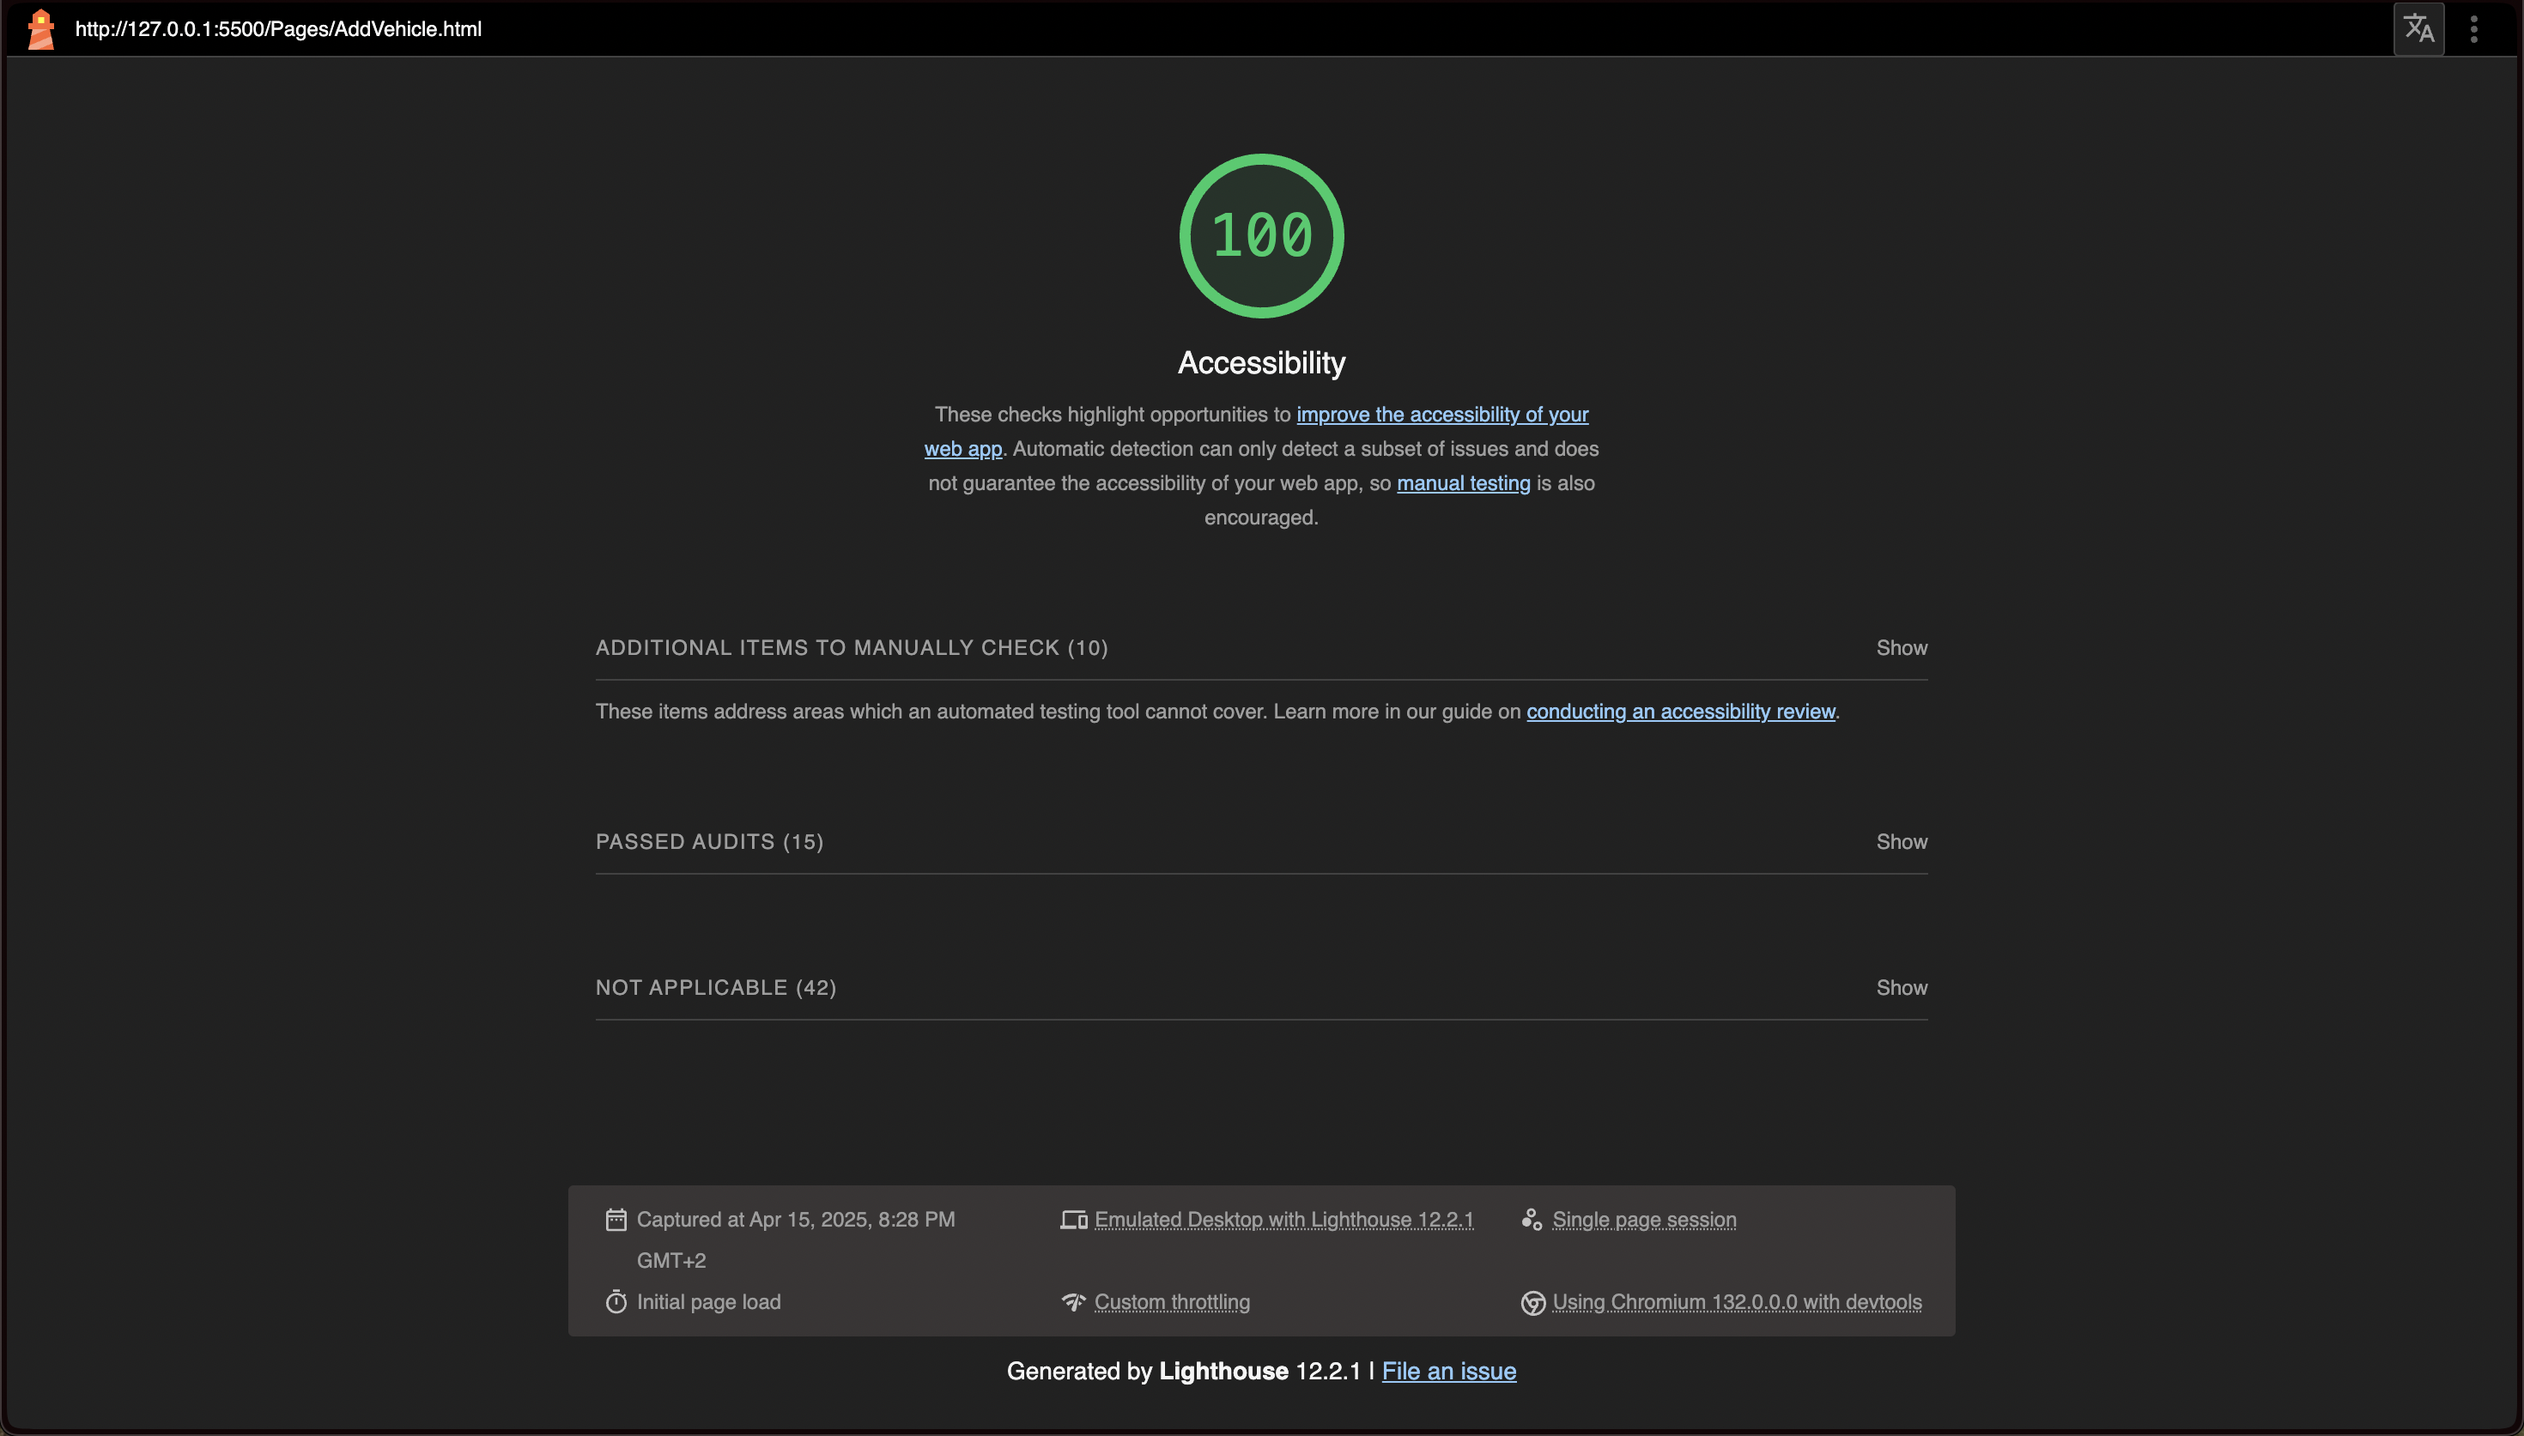
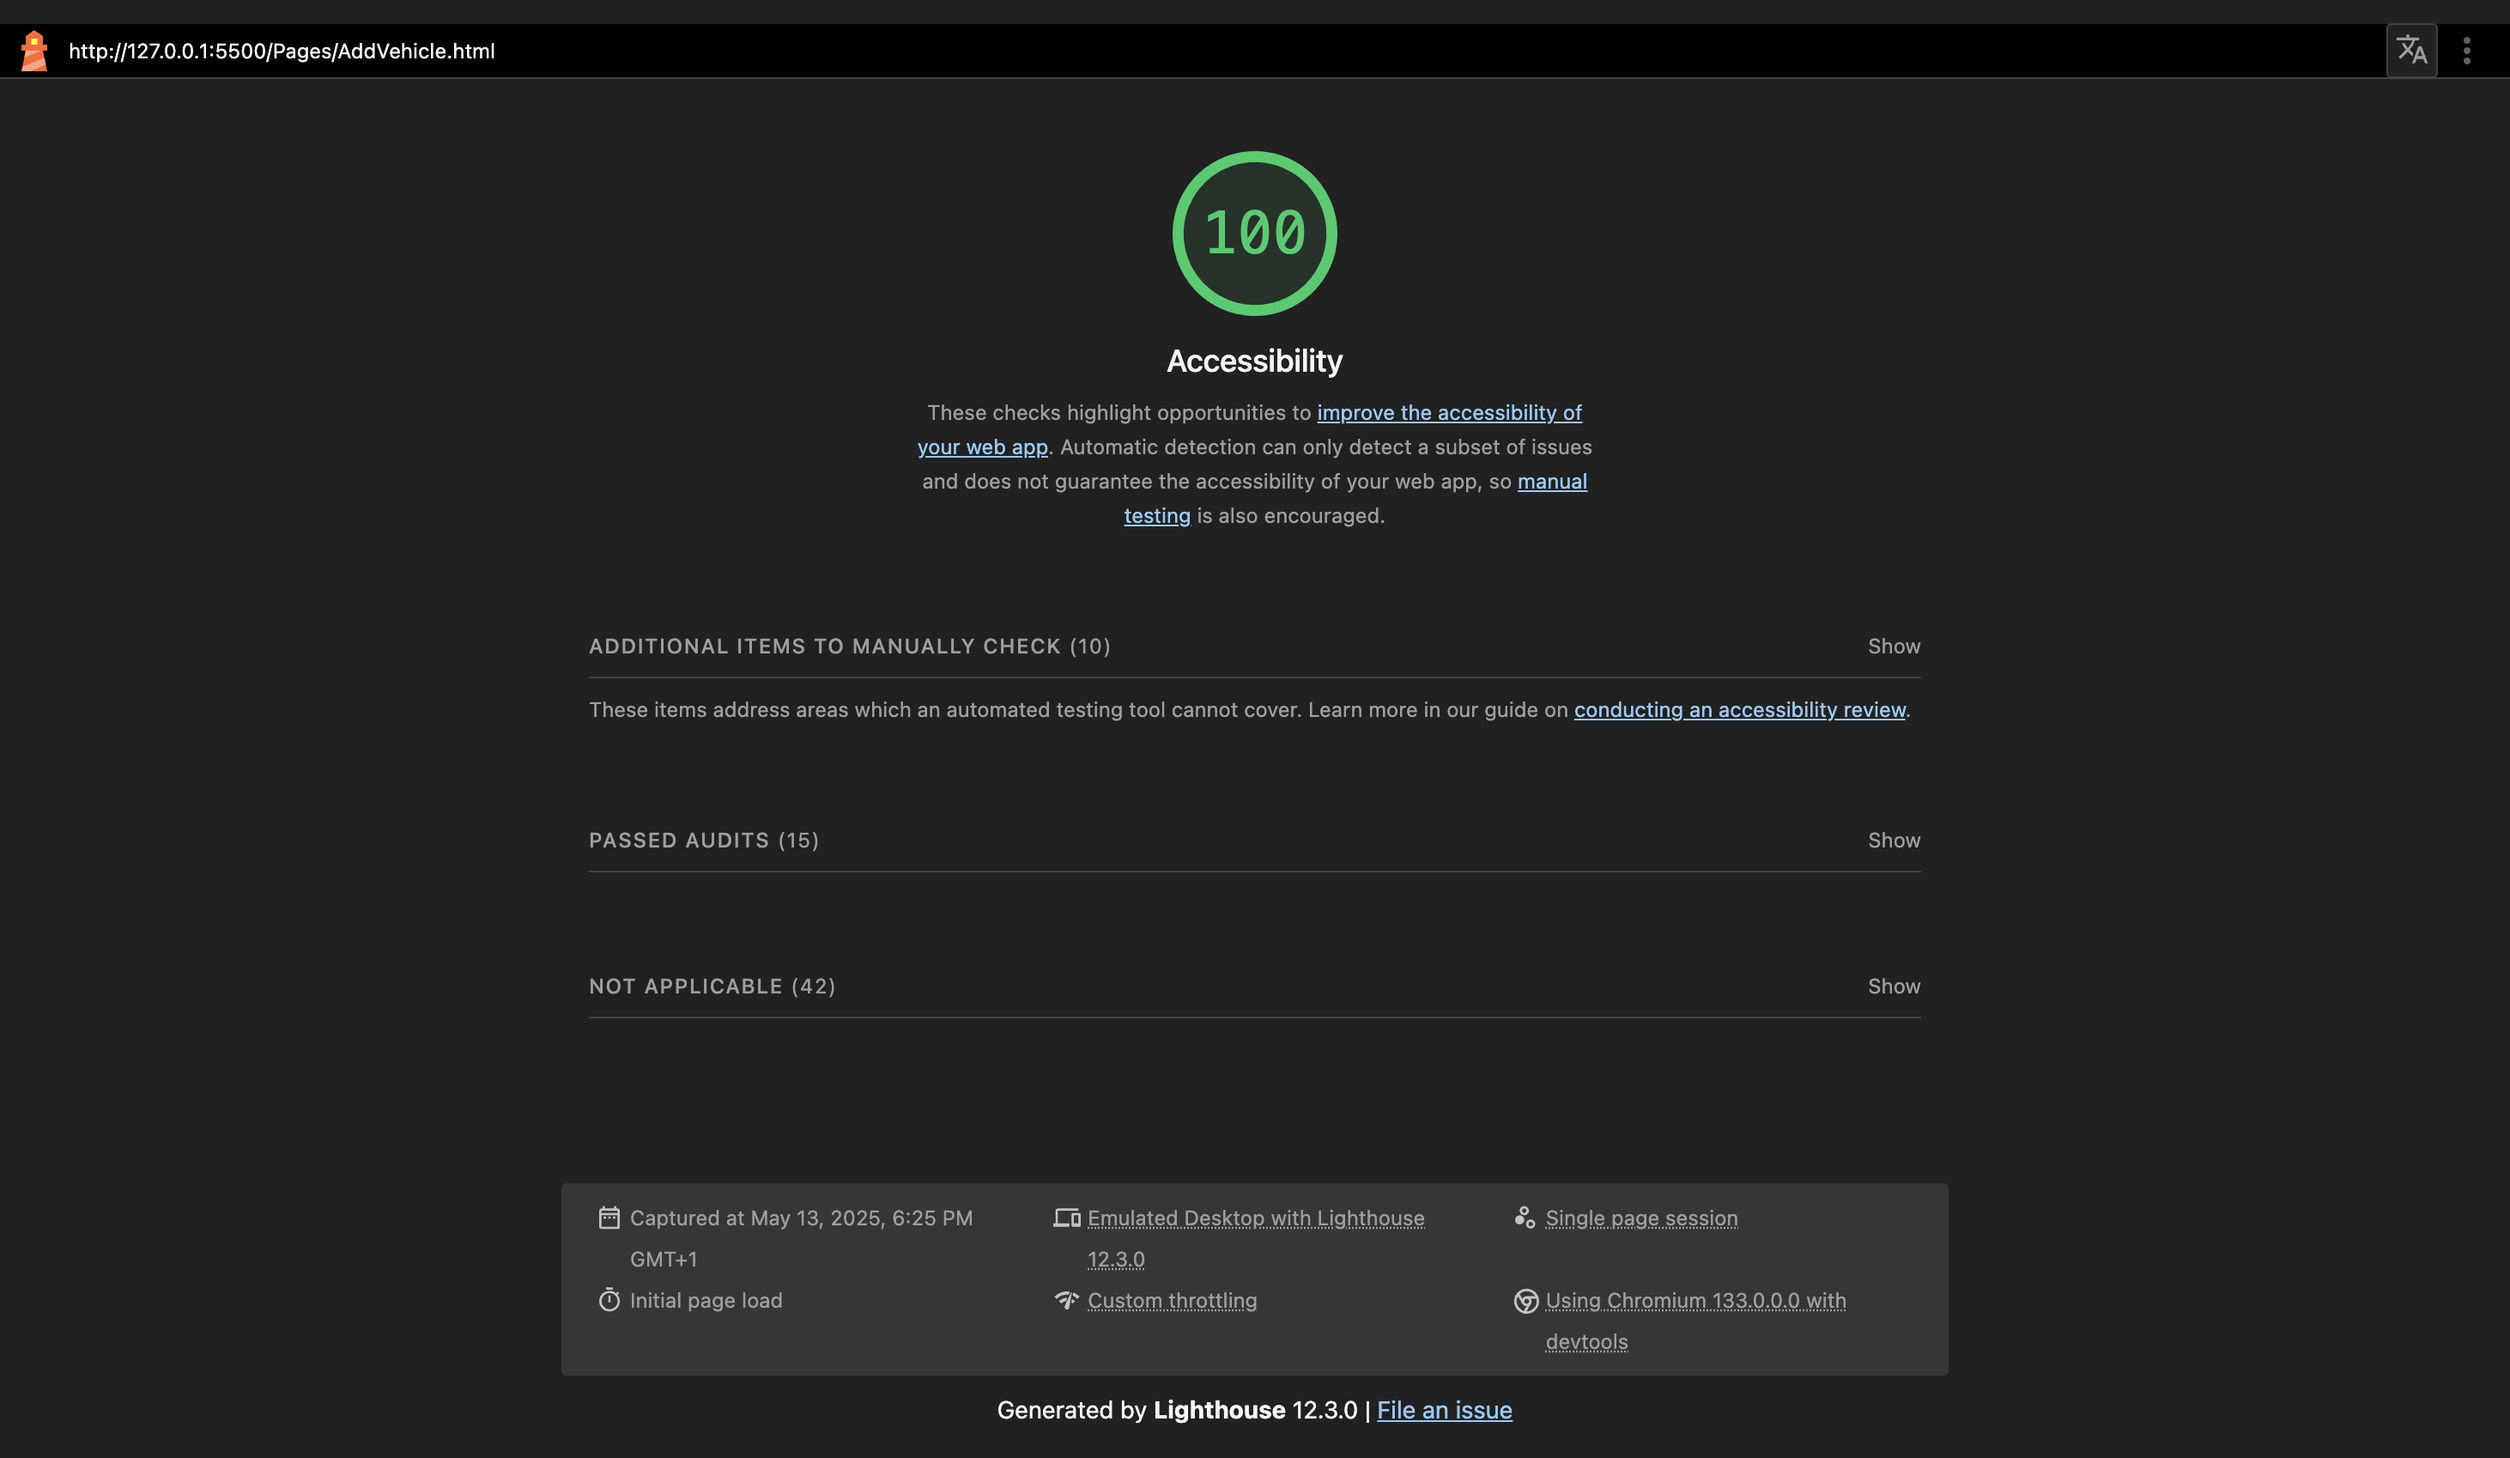
Update

diff --git a/Modules/AddVehicleMain.js b/Modules/AddVehicleMain.js
@@ -16,7 +16,9 @@ var OwnerID;
 var LastCheckedOwner = null;
 var Tab = "Existing";
 
-function Debounce(Timeout, Action) { //Hmmmm
+//Debounce function, executes an action after x amount of time since last call.
+//Intended to do certain actions after user stops inputting, without them having to do anything.
+function Debounce(Timeout, Action) {
     let Timer; 
     return (...args) => {
         clearTimeout(Timer);
@@ -25,6 +27,7 @@ function Debounce(Timeout, Action) { //Hmmmm
 }
 
 //#region Existing Owner Tab
+//This region covers functionality for using an owner that already exists in the database
 const ExistingOwnerButton = document.getElementById("existingOwnerButton");
 const ExistingOwnerTab = document.getElementsByClassName("existingOwnerTab");
 const OwnerInput = document.getElementById("owner");
@@ -89,6 +92,9 @@ async function ValidateExistingOwner() {
     GlobalCheck();
 }
 
+//Automatic/Forceful selection
+//Used if user tries to add an owner that exists
+//Or once a new owner is successfully added
 function ForceSetExistingOwner(Person) {
     ExistingOwnerButton.click();
     
@@ -109,6 +115,7 @@ function ForceSetExistingOwner(Person) {
 //#endregion
 
 //#region New Owner Tab
+//This region covers functionality for adding a new owner to the database
 const NewOwnerButton = document.getElementById("newOwnerButton");
 const NewOwnerTab = document.getElementsByClassName("newOwnerTab");
     const NameInput = document.getElementById("name");
@@ -140,9 +147,7 @@ function ShowNewOwnerTab() {
 
     MessageOwner.textContent = "";
 }
-//#endregion
 
-//#region Add owner
 const AddOwnerButton = document.getElementById("addOwnerButton");
 
 async function AddPerson() {
@@ -198,6 +203,7 @@ async function AddPerson() {
 //#endregion
 
 //#region Selection
+//When listing possible owners, if one is selected, this is called
 async function SelectMe() {
     await FetchPeopleByID(this.dataset.personid).then(
         (People) => {
@@ -276,11 +282,18 @@ function CheckAllowSubmit() {
     return Valid;
 }
 
+function CheckOwnerExists() {
+    let Valid = !!OwnerID;
+    Results.style.border = Valid ? "2px dashed black" : "2px dashed red;"
+    return Valid;
+}
+
 function GlobalCheck() {
     CheckAllowCheckOwner();
     CheckAllowNewOwner();
     CheckAllowAddOwner();
     CheckAllowSubmit();
+    CheckOwnerExists();
 }
 //#endregion
 

diff --git a/Modules/SB.js b/Modules/SB.js
@@ -3,6 +3,10 @@ import { createClient } from "https://cdn.jsdelivr.net/npm/@supabase/supabase-js
 const SB = createClient("https://dggmyjmokbqvugwjkvil.supabase.co", "eyJhbGciOiJIUzI1NiIsInR5cCI6IkpXVCJ9.eyJpc3MiOiJzdXBhYmFzZSIsInJlZiI6ImRnZ215am1va2JxdnVnd2prdmlsIiwicm9sZSI6ImFub24iLCJpYXQiOjE3NDQxMzEzOTEsImV4cCI6MjA1OTcwNzM5MX0.xW9DKbpYVibTu3Jpe8bvC50Hhpk5BZyTWjgHoQp3HOE");
 console.log("Supabase client created!");
 
+//#region Element Creation Functions
+//Functions that return the raw HTML to display a person or vehicle's information. 
+//The raw HTML is intended to be appended to a div's innerHTML.
+
 function CreatePersonElement(PersonID, Name, Address, DOB, LPN, ExpiryDate) {
     return `
         <div class="result" id="PERSONELEMENT${PersonID}">
@@ -70,6 +74,11 @@ function CreateVehicleElement(VehicleID, Make, Model, Color, OwnerID, OwnerName)
         </div>
     `;
 }
+//#endregion
+
+//#region Insertion & Fetching Functions
+//Functions that interface with Supabase to fetch or insert people or vehicles into the database.
+//Provides different functionalities, for example: fetching by name, or by id, or by every characteristic (to find exact matches)
 
 async function FetchPeopleByNameOrLPN(Name, LN) {
     const { data, error } = (await SB
@@ -177,6 +186,7 @@ async function InsertVehicle(ID, _Make, _Model, _Colour, _OwnerID) {
 
     return data;
 }
+//#endregion
 
 export { 
     CreatePersonElement,

diff --git a/Tests/SearchTests.spec.js b/Tests/SearchTests.spec.js
@@ -97,6 +97,18 @@ test('VehicleSearch, Empty Fields', async ({ page }) => {
   await expect(page.getByRole('button', { name: 'Submit' })).toBeDisabled();
 });
 
+//Tries to search a nonexistant license plate
+//Goal: Error message is displayed
+test('VehicleSearch, Vehicle Not In Database', async ({ page }) => {
+  await page.getByRole('link', { name: 'Vehicle search' }).click();
+
+  await page.getByRole('textbox', { name: 'Search by license plate number:' }).fill('ISUREHOPETHISISNOTALICENSENUMBER');
+
+  await page.getByRole('button', { name: 'Submit' }).click();
+
+  await expect(page.locator("#message")).toContainText("No result found!");
+});
+
 //The system will then show all the details of the car (e.g., type, colour etc.), and the ownerʼs name and license number.
 test('VehicleSearch, Returns All Details', async ({ page}) => {
 

diff --git a/Style/Style.css b/Style/Style.css
@@ -1,7 +1,7 @@
 .container {
     display: grid;
 
-    @media screen and (max-width: 499px) { /*Mobile*/
+    @media screen and (max-width: 499px) { /*Mobile */
         grid-template-areas: 
         "Header Header" 
         "Main Main"
@@ -184,7 +184,7 @@ main {
         padding: 10px;
         min-height: 53vh;
 
-        border: 2px dashed black;
+        border: 2px dashed red;
 
         & > .result {
             flex: 1;

diff --git a/Report.md b/Report.md
@@ -18,21 +18,101 @@
 9. Heading elements appear in a sequentially-descending order - See [AddVehicle.html:16](./Pages/AddVehicle.html#)
 10. HTML5 landmark elements are used to improve navigation - See [AddVehicle.html:15](./Pages/AddVehicle.html#)
 
+Additionally, I manually tested the following:
+
+11. **Interactive controls are keyboard focusable** - Tested by tabbing through the form elements. It is possible to fill and submit the form using only the keyboard.
+12. **Interactive elements indicate their purpose and state** - The form communicates fields that must be filled in. Highlighting them when they are yet to be filled or filled incorrectly. It is clear they are interactable.
+13. **The page has a logical tab order** - Tabbing through the page goes from top to bottom.
+14. **Visual order on the page follows DOM order.**
+15. **User focus is not ever accidentally trapped in a region.**
+16. **The user's focus is directed to new content added to the page** - Page is small enough that there is no need to move focus.
+17. **Offscreen content is hidden from assistive technology** - There is no offscreen content.
+18. **Custom controls have associated labels & Custom controls have ARIA roles** - There are no custom controls.
+
 ## CSS
 
 ### Mobile Layout (<500px)
 
-<img src="./Assets/Report/Mobile1.jpg" width="400">
-<img src="./Assets/Report/Mobile2.jpg" width="400">
+![Mobile layout image](./Assets/Report/Mobile.png)
 
 #### Achieved using Media Queries at the following locations in [Style.css](./Style/Style.css):
-1. Site Layout - Line 4, Line 11
-2. Navbar direction - Line 35, Line 38
-3. Add Vehicle Form 
-    - Layout - Line 76, Line 80
-    - Add Vehicle Button - Line 131, Line 134
-4. People/Vehicle Search Form Layout:
-    - Text Input Field - Line 110, Line 113
-    - Search Button - Line 119, Line 122
+1. Site Layout
+    - Location: Line 4 to Line 16
+    - Description: Changes the grid layout of the site depending on platform.
+2. Navbar direction
+    - Location: Line 35 to Line 40
+    - Description: Changes the navigation links to be listed either horizontally or vertically depending on platform. 
+3. Add Vehicle Form Layout
+    - Location: Line 76 to Line 83
+    - Description: Changes how the form is laid out slightly depending on platform.
+4. Add Vehicle Form, Submit Button 
+    - Location: Line 135 to Line 140
+    - Description: Changes submit button to take up most of horizontal space on mobile, for better usability.
+5. People/Vehicle Search Form Layout:
+    - Location: Line 114 to Line 119
+    - Description: Changes how the form is laid out slightly depending on platform.
+6. People/Vehicle Search Form, Submit Button
+    - Location: Line 122 to Line 128
+    - Description: Changes submit button to take up most of horizontal space on mobile, for better usability.
 
-## JS
+## JS (Tests)
+
+### People Search Tests
+
+-   Searching With Empty Fields - See [SearchTests.spec.js:13](./Tests/SearchTests.spec.js)
+    - Goal: Since there is nothing to search against, the website should not let the user perform a search with empty fields.
+-   Searching With Both Fields Filled - See [SearchTests.spec.js:24](./Tests/SearchTests.spec.js)
+    - Goal: As per the spec, the website should not let the user perform a search with both the name and license number. If the user manages this, an error message should be displayed.
+-   Searching For a Person Not In Database - See [SearchTests.spec.js:36](./Tests/SearchTests.spec.js)
+    - Goal: Since there is nothing to display, the website should inform the user no results were found.
+-   Ensuring Fields are Case Insensitive - See [SearchTests.spec.js:47](./Tests/SearchTests.spec.js)
+    - Goal: For ease of use, the website should allow searches for (example) 'john' to retrieve 'John'. 
+-   Ensuring Partial Search Works as Expected - See [SearchTests.spec.js:68](./Tests/SearchTests.spec.js)
+    - Goal: For ease of use, the website should allow searches for (example) 'Joh' to retrieve 'John'.
+
+### Vehicle Search Tests
+
+-   Searching With Empty Field - See [SearchTests.spec.js:92](./Tests/SearchTests.spec.js)
+    - Goal: Since there is nothing to search against, the website should not let the user perform a search with an empty field.
+-   Searching For a Vehicle Not In Database - See [SearchTests.spec.js:102](./Tests/SearchTests.spec.js)
+    - Goal: Since there is nothing to display, the website should inform the user no results were found.
+-   Ensuring Search Returns All Details - See [SearchTests.spec.js:113](./Tests/SearchTests.spec.js)
+    - Goal: The website should return every required detail from a search. (Vehicle ID, Make, Model, Colour, and Owner)
+-   Ensuring Search Handles Missing Owner - See [SearchTests.spec.js:127](./Tests/SearchTests.spec.js)
+    - Goal: The website should be able to handle vehicles with a missing owner safely. 
+
+![All People and Vehicle Search Tests Passed](./Assets/Report/SearchTestsPassed.png)
+
+<hr>
+
+### Add Vehicle Tests
+
+-   Trying to Add Existing Vehicle - See [AddVehicleTests.spec.js:11](./Tests/AddVehicleTests.spec.js)
+    - Goal: To avoid duplicate entries in the database, the website should not insert vehicles that already exist and should instead inform the user about its pre-existance.
+-   Trying to Add Vehicle with a Missing Field - See [AddVehicleTests.spec.js:30](./Tests/AddVehicleTests.spec.js)
+    - Goal: To avoid incomplete entries in the database, the website should not insert vehicles if every detail isn't filled out. 
+
+### Add Owner Tests
+
+-   Trying to Add Existing Owner - See [AddVehicleTests.spec.js:49](./Tests/AddVehicleTests.spec.js)
+    - Goal: To avoid duplicate entries in the database, the website should not insert owners that already exist and should instead set the owner of a new vehicle to be that existing owner.
+-   Trying to Add Existing Owner, but Using Lowercased Name - See [AddVehicleTests.spec.js:82](./Tests/AddVehicleTests.spec.js)
+    - Goal: The website should ensure a new owner named 'john x' cannot be added if a 'John x' already exists, they represent the same person.
+-   Trying to Add Owner, Whose Information *Almost* Matches an Existing Owner - See [AddVehicleTests.spec.js:115](./Tests/AddVehicleTests.spec.js)
+    - Goal: The website should ensure adding an owner with (example) the same name but different license number to an existing owner *is* permitted.  
+-   Trying to Add Owner with a Missing Field - See [AddVehicleTests.spec.js:149](./Tests/AddVehicleTests.spec.js)
+    - Goal: To avoid incomplete entries in the database, the website should not insert owners if every detail isn't filled out. 
+-   Trying To Add Owner with a DD-MM-YYYY Date Instead of the Correct YYYY-MM-DD - See [AddVehicleTests.spec.js:173](./Tests/AddVehicleTests.spec.js)
+    - Goal: Enforcing a date format
+-   Trying To Add Owner with an Impossible Date - See [AddVehicleTests.spec.js:192](./Tests/AddVehicleTests.spec.js)
+    - Goal: Enforcing a date format
+
+![All Add Vehicle & Owner Tests Passed](./Assets/Report/AddVehicleTestsPassed.png)
+
+<hr>
+
+### Sample Tests
+
+![All Sample Tests Passed](./Assets/Report/SampleTestsPassed.png)
+
+<hr>
